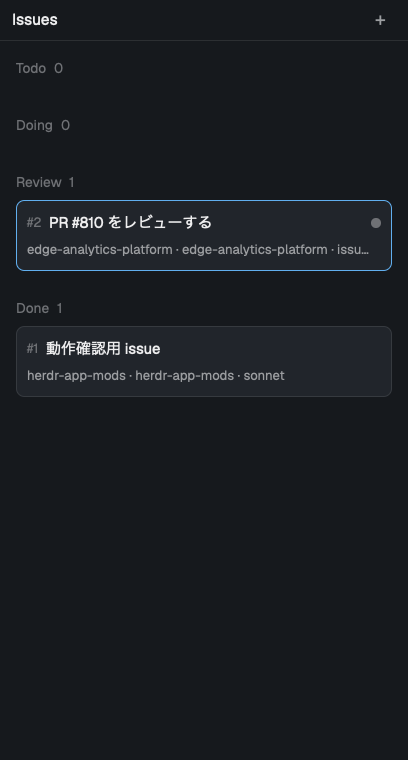
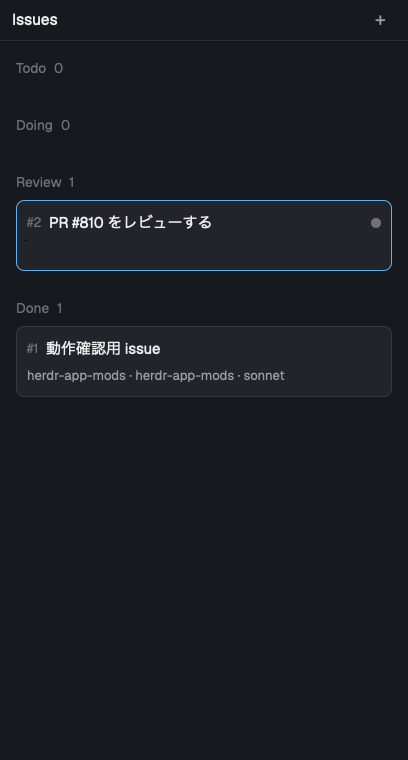
feat(issues): show the frontmatter folded above the body in the preview

Changed region(s): [[0.4412, 0.3026, 0.7941, 0.3329], [0.0588, 0.3026, 0.4118, 0.3329], [0.8235, 0.3026, 0.8824, 0.3329]]

diff --git a/mods/issues/main.js b/mods/issues/main.js
@@ -276,6 +276,7 @@ class Preview {
     const t = theme();
     const p = props();
     const close = () => closeOverlay(p.overlay);
+    const fm = this.issue && /^---\r?\n([\s\S]*?)\r?\n---/.exec(this.issue.raw)?.[1];
     return v_flex().id("issues-view").track_focus(this.handle).size_full().p(18).bg(t.popover).text_color(t.foreground)
       .on_key_down((e, cx) => { if (e.key === "escape") { close(); cx.stop_propagation(); } })
       .child(h_flex().gap(8).items_start()
@@ -283,6 +284,10 @@ class Preview {
         .child(div().id("issues-close").flex_none().p(3).rounded(4).text_color(t.dim).cursor_pointer()
           .hover((s) => s.bg(t.hover).text_color(t.foreground)).on_click(close).child(svg("mods/pane/close.svg").size(14))))
       .child(div().id("issues-view-body").flex_1().min_h(0).mt(12).overflow_y_scrollbar().text_size(12.8)
+        .when(Boolean(fm), (el) => el
+          .child(div().id("issues-fm").mb(8).text_size(11.5).text_color(t.dim).cursor_pointer().hover((s) => s.text_color(t.foreground))
+            .on_click((_e, cx) => { this.meta = !this.meta; cx.notify(); }).child(`${this.meta ? "▾" : "▸"} Frontmatter`))
+          .when(Boolean(this.meta), (el) => el.child(TextView.markdown(`issues-fm-${p.id}`, `\`\`\`yaml\n${fm}\n\`\`\``))))
         .child(TextView.markdown(`issues-md-${p.id}`, this.issue?.body ?? "")))
       .child(h_flex().pt(14).gap(8).justify_end()
         .child(button(t, "issues-run", "▶ Run", false, (_e, cx) => task(cx, async () => { try { await runIssue(p.id); } finally { close(); } })))

diff --git a/test/main.test.js b/test/main.test.js
@@ -374,4 +374,32 @@ describe("Preview", () => {
     expect(H.notes[0].title).toBe("Cannot run issue #1");
     expect(H.closed).toEqual(["p"]);
   });
+
+  test("frontmatter is folded until its header is clicked", async () => {
+    await seed();
+    const { cx, render } = mount({ view: "view", id: 1, overlay: "p" });
+    await flush();
+    let els = render();
+    expect(H.texts).toContain("▸ Frontmatter");
+    expect(H.texts.some((s) => s.startsWith("```yaml"))).toBe(false);
+    on(els, "issues-fm", "on_click")({}, cx);
+    els = render();
+    expect(H.texts).toContain("▾ Frontmatter");
+    const fm = H.texts.find((s) => s.startsWith("```yaml"));
+    expect(fm).toStartWith("```yaml\nid: 1\ntitle: A\nstatus: todo\n");
+    expect(fm).toContain("repository: /src/a\n");
+    on(els, "issues-fm", "on_click")({}, cx);
+    render();
+    expect(H.texts.some((s) => s.startsWith("```yaml"))).toBe(false);
+  });
+
+  test("a file without frontmatter has no fold", async () => {
+    await store.create({ title: "A", repository: "", body: BODY });
+    await Bun.write(store.fileOf(1), BODY);
+    const { render } = mount({ view: "view", id: 1, overlay: "p" });
+    await flush();
+    const els = render();
+    expect(els["issues-fm"]).toBeUndefined();
+    expect(H.texts).toContain(BODY);
+  });
 });

diff --git a/RECIPE.md b/RECIPE.md
@@ -14,7 +14,7 @@ An issue kanban in the right panel, opened from an Issues tab next to Files and 
 
 ## How it behaves
 
-- Left click: a markdown preview dialog (640×520) of the body, with an × close button at the top right and ▶ Run and Edit buttons; Esc or a click outside closes it.
+- Left click: a markdown preview dialog (640×520) of the body, with the frontmatter as a yaml code block folded under a "▸ Frontmatter" header until clicked, with an × close button at the top right and ▶ Run and Edit buttons; Esc or a click outside closes it.
 - Right click: a popup menu. While an agent is running for the issue, "Go to pane" comes first (selects its space / tab and focuses the agent's pane). Then ▶ Run, Edit, Move to each column, Delete (asks first).
 - Drag and drop: dropping a card on another column changes its status. The dragged card is half transparent; the target column gets an `accent` border.
 - Keys (when the panel has focus): j/k select, n new, e/enter edit, d delete, r run, [ / ] move to the previous / next column.

diff --git a/README.md b/README.md
@@ -8,7 +8,7 @@ An issue kanban for herdr-app, opened from an Issues tab next to Files and Chang
 
 - A kanban with four columns: Todo / Doing / Waiting / Done
 - Add, edit and delete issues; drag and drop to change status
-- Left click shows the body as a markdown preview
+- Left click shows the body as a markdown preview, with the frontmatter folded above it
 - Added or updated cards flash for a moment
 - Run from the right-click menu. While an agent is running, "Go to pane" in the menu or the "Pane ↗" button on the card focuses its pane
 - When finished, the agent writes a `## Summary` into the issue
